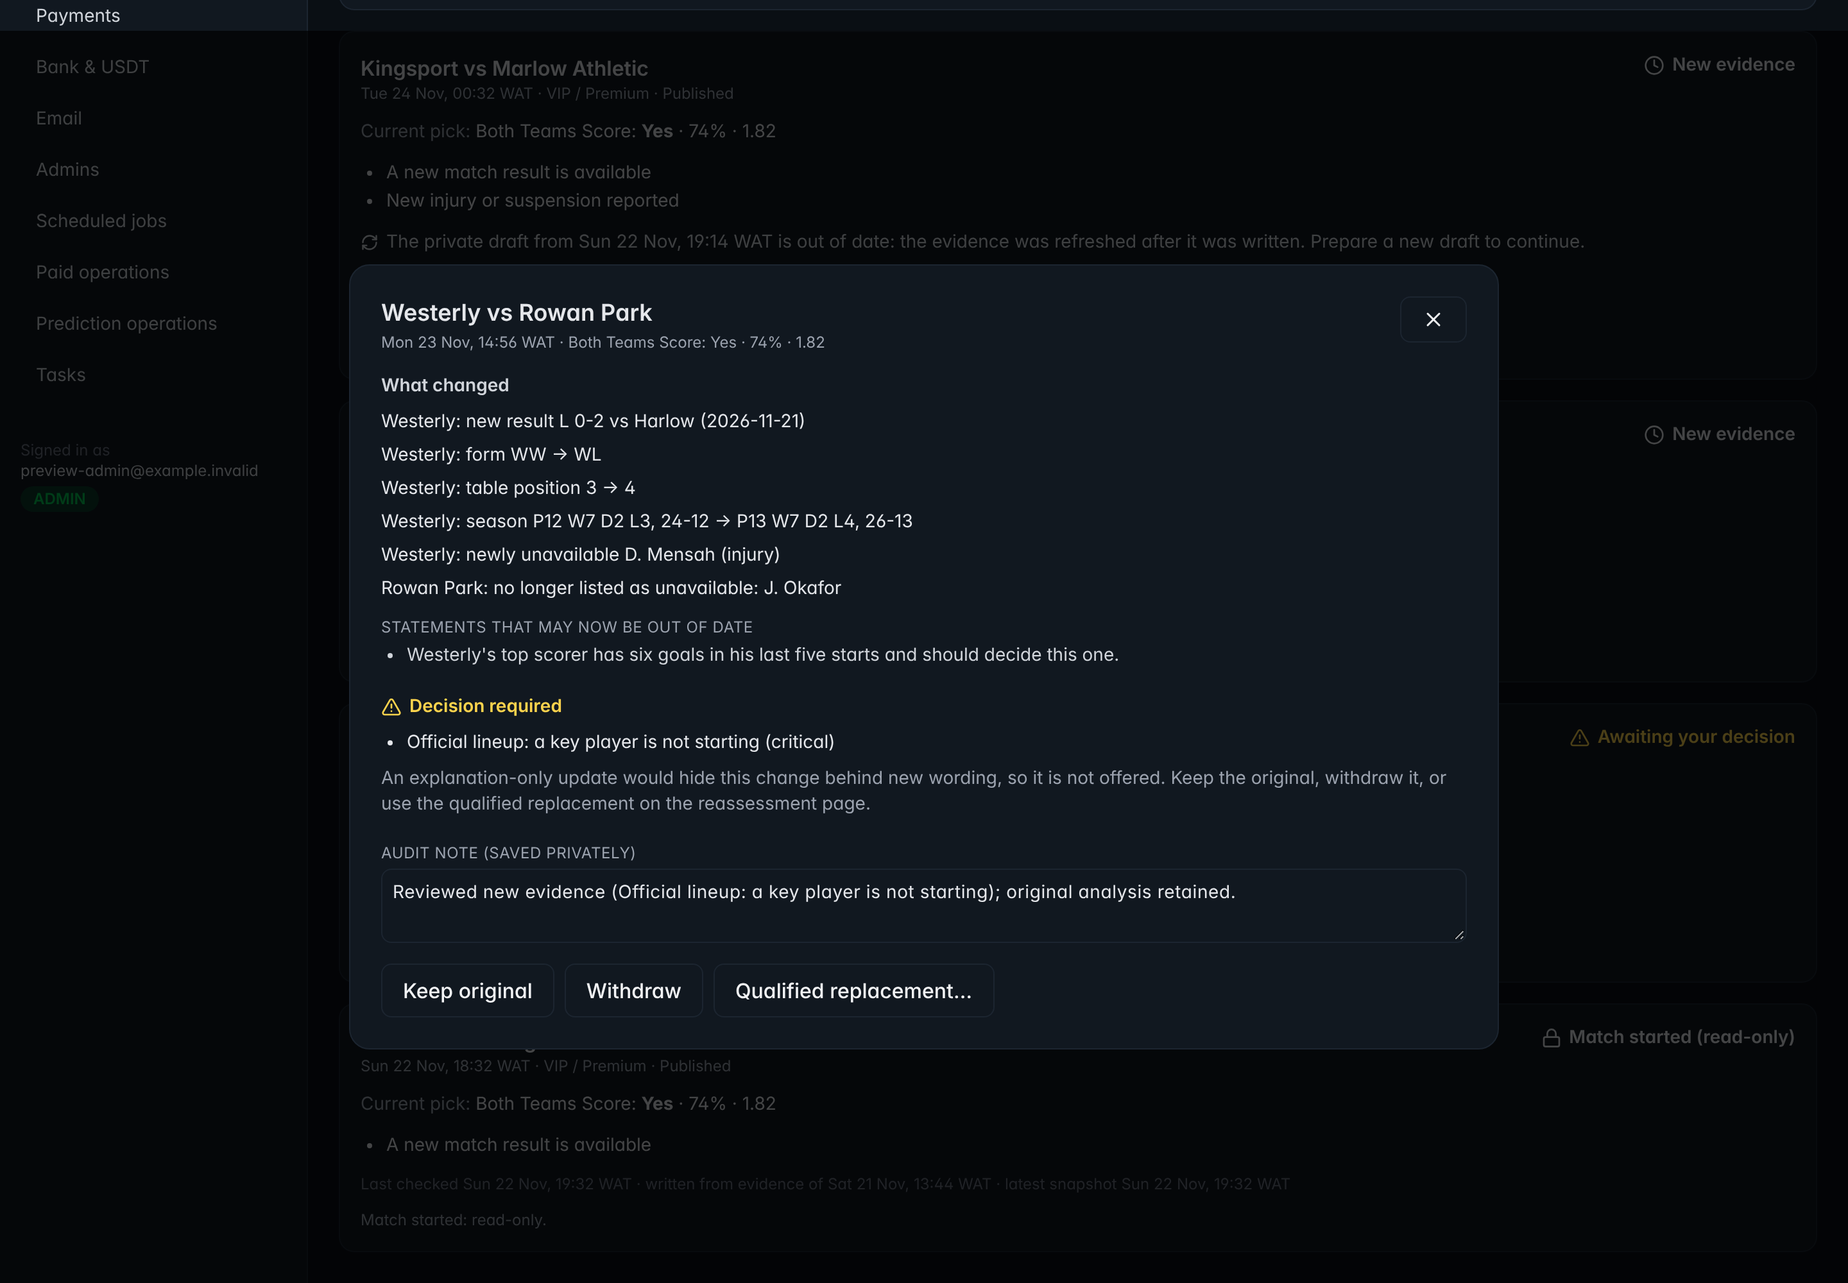
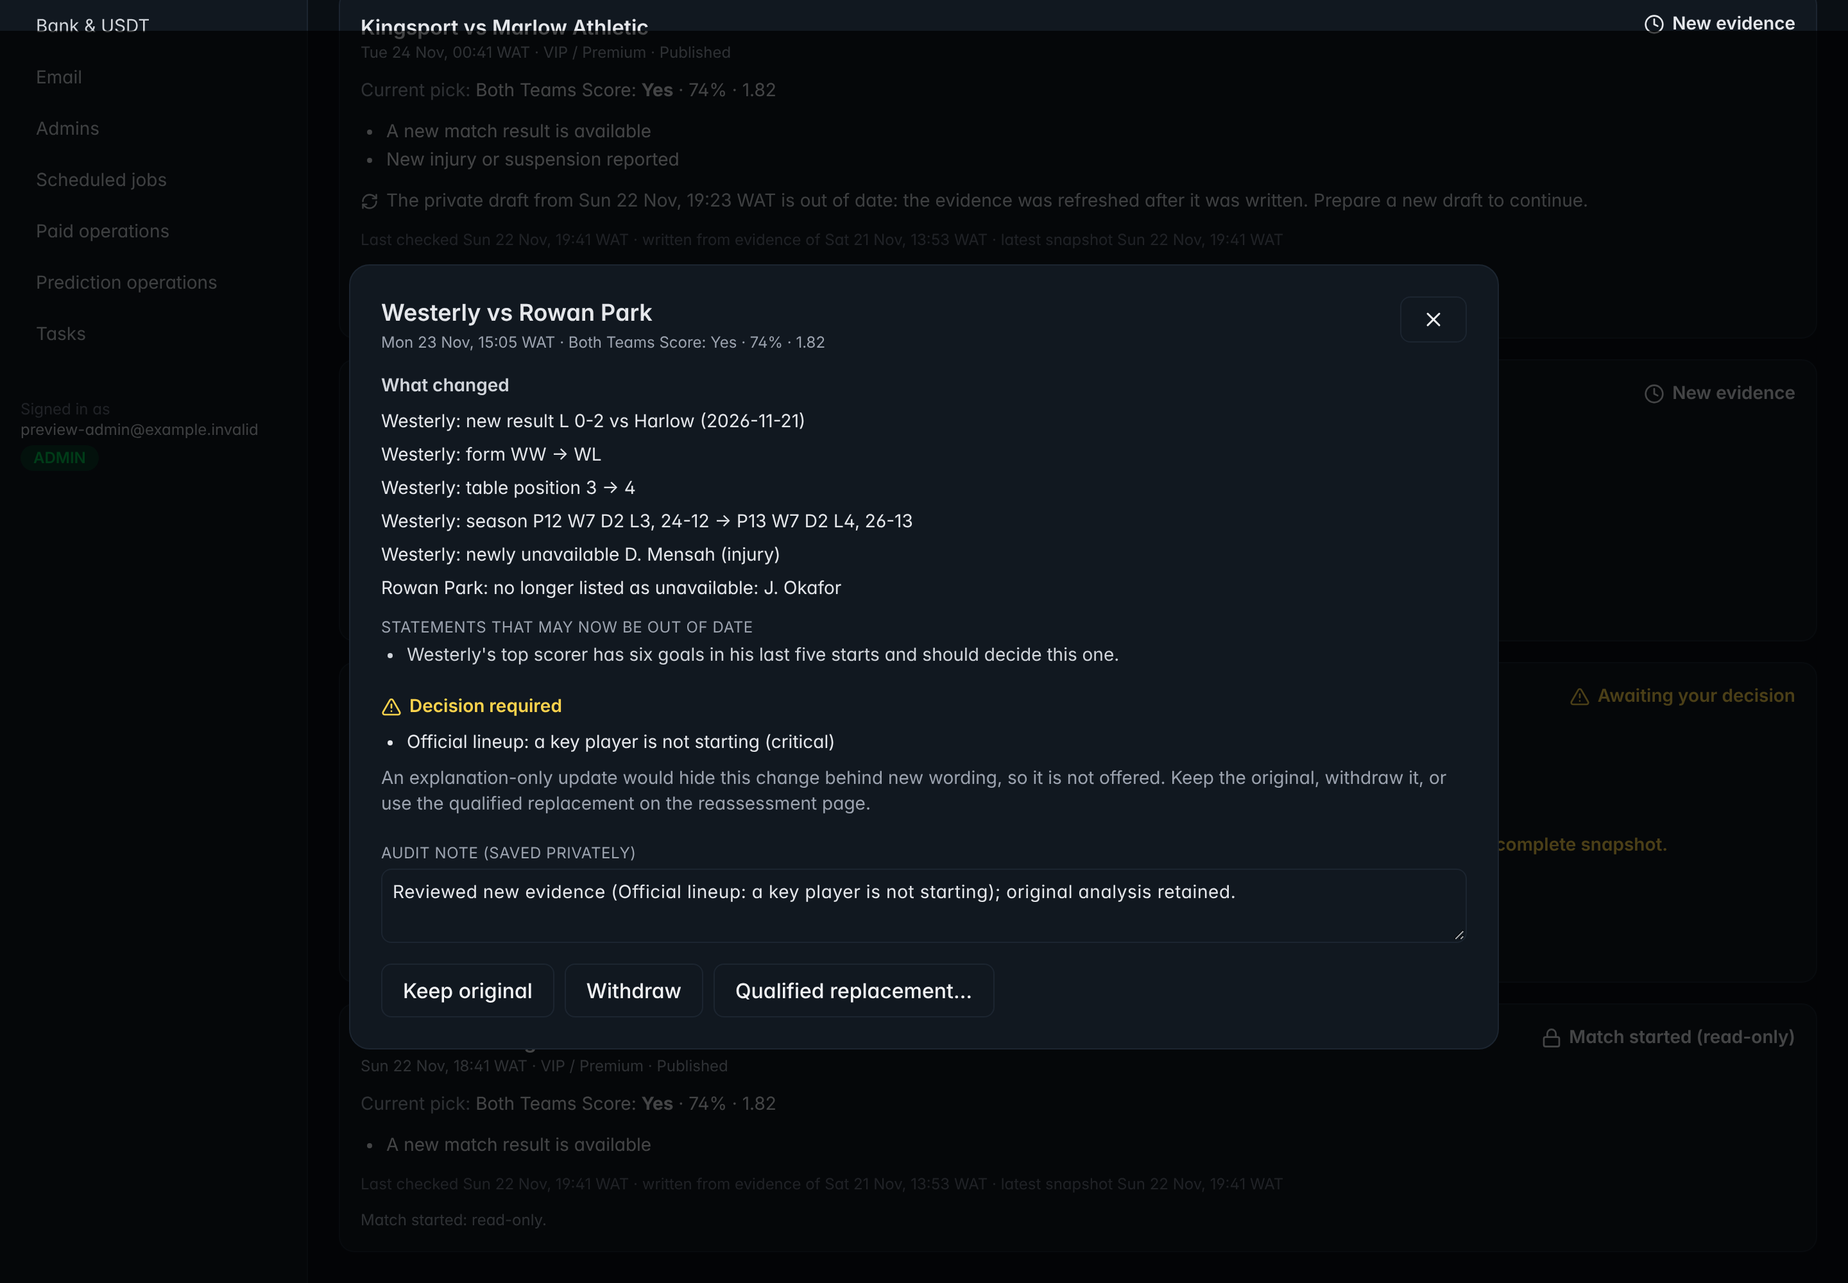
Keep an open review actionable when a monitoring refresh fails (PR #233 review 3)
The worker's missing-team-cache branch overwrote an open REVIEW_REQUIRED
case with UNKNOWN, dropping it (and its verified signal, e.g. a confirmed
key-player absence) out of the admin queue. It now keeps the open case
exactly as recorded (status, summary, alert signature, last complete
snapshot, audit trail) and only records the check time plus a
LATEST_EVIDENCE_UNAVAILABLE marker; the next complete check clears it.
Cases with no open review still become UNKNOWN as before.

The workspace shows "The latest check could not load current evidence.
This case stays open…" (also for FIXTURE_STATE_UNAVAILABLE); Keep /
Withdraw / Review remain available.

Integration regression runs the real worker (stubbed provider, cache-only
at 1,400 remaining, no team cache) on a published REVIEW_REQUIRED case
with a recorded CRITICAL signal: it stays REVIEW_REQUIRED, nothing
published or audited changes, it stays in New evidence as Awaiting your
decision, and Keep still resolves it. A mutation probe restoring the old
downgrade fails the test.

Claude-Session: https://claude.ai/code/session_01AcoHJTLEuy8VUg2Yuuooav

diff --git a/scripts/check-prediction-updates-postgres.ts b/scripts/check-prediction-updates-postgres.ts
@@ -431,7 +431,68 @@ async function main() {
       if (todays.length) await prisma.apiUsage.createMany({ data: todays });
     }
 
-    console.log("PASS: admin-only + CSRF, null kickoff fails closed, Reviewed = decisions only, historical default = upcoming any generation date, per-call quota floor at 1,000/1,500 boundaries, prioritised cards beyond 500, what-changed diff and stale statements, draft → approve (prose only, private before/after audit), keep, decision-required and admin-authored guards, no action after kickoff, quota stand-down, no provider calls");
+    // ---------------------------------------------------------------- review round 3: a failed refresh never clears an open case
+    {
+      // Published, kickoff in 2h (the most urgent due check), open REVIEW_REQUIRED with a recorded CRITICAL signal.
+      const crit = await seed({ tag: "MissingCache", kickoff: new Date(Date.now() + 2 * H), categories: ["VIP"], provenance: "VIP_GENERATED",
+        signals: [{ code: "confirmed-lineup-key-player-absence", severity: "CRITICAL" }] });
+      // No other due published row may outrank it, and no team cache exists for its teams.
+      await prisma.predictionReassessment.updateMany({ where: { predictionId: { in: made.preds.filter((id) => id !== crit) } }, data: { nextCheckAt: new Date(Date.now() + 30 * D) } });
+      await prisma.teamEnrichmentCache.deleteMany({ where: { teamApiId: { in: [77001, 77002] } } }).catch(() => {});
+      const reassBefore = await prisma.predictionReassessment.findUniqueOrThrow({ where: { predictionId: crit } });
+      const predBefore = await snap(crit);
+      const revsBefore = await prisma.predictionRevision.findMany({ where: { predictionId: crit }, orderBy: { id: "asc" } });
+      const realFetch = globalThis.fetch;
+      let calls = 0;
+      // Provider stub: the fixture itself is confirmed (unchanged, not started),
+      // but every team refresh comes back empty, so both team caches are missing.
+      const critRow = await prisma.prediction.findUniqueOrThrow({ where: { id: crit }, select: { fixtureApiId: true, kickoff: true } });
+      globalThis.fetch = (async (input: string | URL | Request) => {
+        calls++;
+        const u = new URL(typeof input === "string" ? input : input instanceof URL ? input.href : input.url);
+        const body = u.pathname === "/fixtures" && u.searchParams.get("id") === String(critRow.fixtureApiId)
+          ? [{ fixture: { id: critRow.fixtureApiId, date: critRow.kickoff!.toISOString(), status: { short: "NS" } }, teams: { home: { id: 77001 }, away: { id: 77002 } }, league: { id: 39 } }]
+          : [];
+        return new Response(JSON.stringify({ errors: [], results: body.length, response: body }), { status: 200, headers: { "content-type": "application/json" } });
+      }) as typeof fetch;
+      // 1,400 remaining: core monitoring runs (floor 1,000), evidence is cache-only
+      // (refresh floor 1,500), and there is no team cache: both sides "missing".
+      await prisma.apiUsage.deleteMany({ where: { day: usageDay, path: usagePath } });
+      const used3 = (await prisma.apiUsage.aggregate({ where: { day: usageDay }, _sum: { count: true } }))._sum.count ?? 0;
+      await prisma.apiUsage.create({ data: { day: usageDay, path: usagePath, count: DAILY_LIMIT - RESERVE - 1_400 - used3 } });
+      let report: Awaited<ReturnType<typeof runPublishedReassessment>>;
+      try { report = await runPublishedReassessment({ now: new Date(), limit: 1 }); }
+      finally {
+        globalThis.fetch = realFetch;
+        await prisma.apiUsage.deleteMany({ where: { day: usageDay } });
+        const todays = usageBefore.filter((u) => u.day === usageDay);
+        if (todays.length) await prisma.apiUsage.createMany({ data: todays });
+      }
+      assert.ok(report.checked >= 1 && calls >= 1, "the worker really ran this case: " + report.summary);
+      assert.equal(report.evidenceMode, "cache-only");
+      const reassAfter = await prisma.predictionReassessment.findUniqueOrThrow({ where: { predictionId: crit } });
+      assert.equal(reassAfter.lastError, "LATEST_EVIDENCE_UNAVAILABLE", "the missing-cache branch was taken");
+      assert.equal(reassAfter.status, "REVIEW_REQUIRED", "the open case is NOT reclassified UNKNOWN");
+      assert.equal(reassAfter.summary, reassBefore.summary, "original summary kept");
+      assert.equal(reassAfter.lastChangeHash, reassBefore.lastChangeHash, "material signature kept");
+      assert.deepEqual(reassAfter.lastEvidence, reassBefore.lastEvidence, "last complete snapshot kept (any draft stays valid)");
+      assert.equal(reassAfter.publicHold, false);
+      assert.ok(reassAfter.checkedAt && reassAfter.checkedAt > (reassBefore.checkedAt ?? new Date(0)), "check time recorded");
+      assert.deepEqual(await prisma.predictionRevision.findMany({ where: { predictionId: crit }, orderBy: { id: "asc" } }), revsBefore, "audit trail untouched");
+      assert.deepEqual(await snap(crit), predBefore, "no published field changed");
+      const card = ((await call(updatesRoute.GET, req("/api/admin/prediction-updates?tab=new&pageSize=100"))).body.cards as Array<C & { latestEvidenceUnavailable: boolean }>).find((c) => c.id === crit);
+      assert.ok(card, "still in New evidence");
+      assert.equal(card!.adminStatus, "Awaiting your decision", "the critical signal still drives the decision");
+      assert.equal(card!.latestEvidenceUnavailable, true, "the failed refresh is shown");
+      assert.equal(card!.actions.keep, true, "Keep original stays available");
+      assert.equal(card!.actions.withdraw, true, "Withdraw stays available");
+      const needsNow = ((await call(updatesRoute.GET, req("/api/admin/prediction-updates?tab=needs&pageSize=100"))).body.cards as C[]);
+      assert.ok(!needsNow.some((c) => c.id === crit), "not moved to Needs more evidence");
+      const kept = await call(resolveRoute.POST, req("/x", { method: "POST", body: { predictionId: crit, action: "KEEP", note: "Lineup absence reviewed; original retained." } }));
+      assert.equal(kept.status, 200, "the administrator can still resolve the original signal");
+    }
+
+    console.log("PASS: failed refresh keeps an open critical case actionable, admin-only + CSRF, null kickoff fails closed, Reviewed = decisions only, historical default = upcoming any generation date, per-call quota floor at 1,000/1,500 boundaries, prioritised cards beyond 500, what-changed diff and stale statements, draft → approve (prose only, private before/after audit), keep, decision-required and admin-authored guards, no action after kickoff, quota stand-down, no provider calls");
   } finally {
     await cleanup();
     await prisma.$disconnect();

diff --git a/scripts/seed-prediction-updates-preview.ts b/scripts/seed-prediction-updates-preview.ts
@@ -44,7 +44,7 @@ async function main() {
   } as unknown as MatchDigest);
 
   type Seed = { home: string; away: string; kickoffDays: number; cat: string; prov: string; status?: string; reass?: string; signals?: Array<[string, string, string]>;
-    reasoning: string; changed?: boolean; draft?: { reasoning: string; confidence?: number; stale?: boolean }; decided?: [string, string]; noJob?: boolean; confidence?: number; odds?: number; market?: string; pick?: string };
+    reasoning: string; changed?: boolean; draft?: { reasoning: string; confidence?: number; stale?: boolean }; decided?: [string, string]; noJob?: boolean; unavailable?: boolean; confidence?: number; odds?: number; market?: string; pick?: string };
   const seeds: Seed[] = [
     { home: "Northbridge", away: "Eastvale", kickoffDays: 0.4, cat: "VIP", prov: "VIP_GENERATED", changed: true,
       signals: [["new-result-home", "MODERATE", "Northbridge played since this pick was written"]],
@@ -55,7 +55,7 @@ async function main() {
       reasoning: "Kingsport have their first-choice midfield available. Marlow Athletic are winless in their last two.",
       draft: { stale: true, reasoning: "A draft written before the latest evidence refresh; it can no longer be applied." } },
     { home: "Westerly", away: "Rowan Park", kickoffDays: 0.8, cat: "FEATURED", prov: "STANDARD_CURATED", changed: true,
-      signals: [["confirmed-lineup-key-player-absence", "CRITICAL", "Official lineup: Westerly's top scorer is not starting"]],
+      signals: [["confirmed-lineup-key-player-absence", "CRITICAL", "Official lineup: Westerly's top scorer is not starting"]], unavailable: true,
       reasoning: "Westerly's top scorer has six goals in his last five starts and should decide this one." },
     { home: "Ashgrove", away: "Calder Town", kickoffDays: 2.5, cat: "FEATURED", prov: "STANDARD_CURATED", status: "PENDING_REVIEW", changed: true,
       signals: [["new-result-home", "MODERATE", "Ashgrove played"]], reasoning: "Ashgrove are in strong form with two straight wins." },
@@ -84,8 +84,9 @@ async function main() {
       publishedAt: status === "PUBLISHED" ? new Date(now - 20 * H) : null, createdAt: new Date(now - 30 * H),
       categories: { create: [{ category: s.cat, manual: false }] } } });
     await prisma.predictionReassessment.create({ data: { predictionId: p.id, status: s.reass ?? "REVIEW_REQUIRED", publicHold: false,
-      checkedAt: new Date(now - 12 * 60_000), lastEvidence: after as object, lastEvidenceAt: new Date(now - 12 * 60_000), lastChangeHash: "preview-" + n,
-      summary: s.reass === "UNKNOWN" ? "Fixture status could not be confirmed from the latest snapshot; no change recorded." : "New evidence" } });
+      checkedAt: new Date(now - 12 * 60_000), lastEvidence: after as object, lastEvidenceAt: new Date(now - (s.unavailable ? 3 * 60 : 12) * 60_000), lastChangeHash: "preview-" + n,
+      summary: s.reass === "UNKNOWN" ? "Fixture status could not be confirmed from the latest snapshot; no change recorded." : "New evidence",
+      lastError: s.unavailable ? "LATEST_EVIDENCE_UNAVAILABLE" : null } });
     if ((s.reass ?? "REVIEW_REQUIRED") === "REVIEW_REQUIRED")
       await prisma.predictionRevision.create({ data: { predictionId: p.id, kind: "REVIEW_REQUIRED", publiclyVisible: false, reason: "monitoring", beforeJson: {},
         evidenceJson: (s.signals ?? []).map(([code, severity, message]) => ({ code, severity, source: "fixture", message })),

diff --git a/src/lib/reassessment/worker.ts b/src/lib/reassessment/worker.ts
@@ -72,6 +72,8 @@ const LEASE_KEY = "published-prediction-reassessment";
  * cached evidence the enrichment crons keep warm for published picks.
  */
 export const REASSESSMENT_CORE_MIN_REMAINING = 1_000;
+/** Marker for a check that could not load current team evidence (cleared by the next complete check). */
+export const LATEST_EVIDENCE_UNAVAILABLE = "LATEST_EVIDENCE_UNAVAILABLE";
 export const REASSESSMENT_REFRESH_MIN_REMAINING = 1_500;
 
 type SelectionSnapshot = {
@@ -289,14 +291,22 @@ export async function runPublishedReassessment(input: { now?: Date; limit?: numb
         // enrichment requests failed. Other changes still fail closed.
         const criticalFixtureAlreadyKnown = signals.some(s => s.source === "fixture" && s.severity === "CRITICAL");
         if ((sources.homeTeam === "missing" || sources.awayTeam === "missing") && !criticalFixtureAlreadyKnown) {
+          // A failed refresh never clears an open review (like the other
+          // missing-data branches): the case, its signal, summary, signature
+          // and snapshot stay exactly as recorded, so the administrator can
+          // still resolve it. Only the check time and an "evidence
+          // unavailable" marker change; the next complete check clears it.
+          const keepReview = row.reassessment?.status === "REVIEW_REQUIRED";
+          const unavailable = "One or both teams lack current evidence; no assumption of unchanged conditions.";
           await prisma.predictionReassessment.upsert({
             where: { predictionId: row.id },
             create: { predictionId: row.id, status: "UNKNOWN", checkedAt: now,
-              nextCheckAt: new Date(now.getTime() + 3_600_000),
-              summary: "One or both teams lack current evidence; no assumption of unchanged conditions." },
-            update: { status: "UNKNOWN", checkedAt: now, nextCheckAt: new Date(now.getTime() + 3_600_000),
-              summary: "One or both teams lack current evidence; no assumption of unchanged conditions." },
+              nextCheckAt: new Date(now.getTime() + 3_600_000), summary: unavailable, lastError: LATEST_EVIDENCE_UNAVAILABLE },
+            update: keepReview
+              ? { checkedAt: now, nextCheckAt: new Date(now.getTime() + 3_600_000), lastError: LATEST_EVIDENCE_UNAVAILABLE }
+              : { status: "UNKNOWN", checkedAt: now, nextCheckAt: new Date(now.getTime() + 3_600_000), summary: unavailable, lastError: LATEST_EVIDENCE_UNAVAILABLE },
           });
+          if (keepReview) report.flagged++;
           report.skipped++;
           continue;
         }

diff --git a/src/app/admin/updates/page.tsx b/src/app/admin/updates/page.tsx
@@ -22,6 +22,7 @@ type Card = {
   current: { market: string; pick: string; confidence: number; odds: number | null; publishedAt: string | null; provenance: string; reasoning: string; matchPreview: string | null };
   adminStatus: string; reasons: string[]; signals: Signal[]; summary: string | null; lastChecked: string | null;
   snapshot: { originalAt: string | null; latestAt: string | null; source: string };
+  latestEvidenceUnavailable: boolean;
   diff: Diff; possiblyStale: string[];
   draft: { revisionId: string; reasoning: string; matchPreview: string; confidence: number; sameSelection: boolean; stale: boolean; at: string } | null;
   decision: { required: boolean; reasons: string[] };
@@ -215,6 +216,10 @@ function UpdateCardView({ card, onReview, onDone }: { card: Card; onReview: () =
       <p className="text-sm"><span className="text-gray-400">Current pick:</span> {card.current.market}: <b>{card.current.pick}</b> · {card.current.confidence}%{card.current.odds ? ` · ${card.current.odds.toFixed(2)}` : ""}</p>
       {card.reasons.length > 0 && <ul className="list-disc space-y-0.5 pl-5 text-sm text-gray-200">{card.reasons.map((r) => <li key={r}>{r}</li>)}</ul>}
       {card.adminStatus === "Needs more evidence" && card.summary && <p className="text-sm text-gray-300">{card.summary}</p>}
+      {card.latestEvidenceUnavailable && (
+        <p className="flex items-center gap-1.5 text-sm font-semibold text-amber-300"><AlertTriangle size={15} aria-hidden />
+          The latest check ({when(card.lastChecked)}) could not load current evidence. This case stays open; what changed is from the last complete snapshot.</p>
+      )}
       {card.draft?.stale && card.upcoming && (
         <p className="flex items-center gap-1.5 text-sm text-gray-300"><RefreshCw size={14} aria-hidden />
           The private draft from {when(card.draft.at)} is out of date: the evidence was refreshed after it was written. Prepare a new draft to continue.</p>

diff --git a/src/lib/predictionUpdates.ts b/src/lib/predictionUpdates.ts
@@ -79,6 +79,8 @@ export type UpdateCard = {
   summary: string | null;
   lastChecked: string | null;
   snapshot: { originalAt: string | null; latestAt: string | null; source: "monitoring snapshot" | "none" };
+  /** The latest monitoring check could not load current evidence (refresh failed); the open case is kept. */
+  latestEvidenceUnavailable: boolean;
   diff: EvidenceDiff | null;
   possiblyStale: string[];
   draft: { revisionId: string; reasoning: string; matchPreview: string; confidence: number; sameSelection: boolean; stale: boolean; at: string } | null;
@@ -137,6 +139,8 @@ export function buildCard(row: CardRow, now: Date): UpdateCard {
     lastChecked: row.reassessment?.checkedAt?.toISOString() ?? null,
     snapshot: { originalAt: row.aiJob?.createdAt.toISOString() ?? null, latestAt: row.reassessment?.lastEvidenceAt?.toISOString() ?? null,
       source: latest ? "monitoring snapshot" : "none" },
+    // The latest check could not load current team evidence or confirm the fixture state.
+    latestEvidenceUnavailable: row.reassessment?.lastError === "LATEST_EVIDENCE_UNAVAILABLE" || row.reassessment?.lastError === "FIXTURE_STATE_UNAVAILABLE",
     diff, possiblyStale: possiblyStaleStatements([row.matchPreview, row.reasoning].filter(Boolean).join("\n"), diff, signals),
     draft, decision, latestDecision,
     suggestedNotes: { update: suggestedAuditNote(signals, "update"), keep: suggestedAuditNote(signals, "keep") },

diff --git a/docs/PREDICTION_UPDATES_WORKSPACE.md b/docs/PREDICTION_UPDATES_WORKSPACE.md
@@ -60,6 +60,7 @@ Other server-side guards, which apply to the routes and not only to the buttons:
   - **The alert signature is unchanged** and still drives alerts.
 - All routes are **admin-only**, and mutations are **origin-checked**, which guards against CSRF.
 - **Nothing is deleted, hidden or put on public hold** by this workspace.
+- **A failed refresh never clears an open case.** When a monitoring check cannot load current evidence (a team cache missing, or the fixture state unconfirmed), an open `REVIEW_REQUIRED` case keeps everything as recorded: status, signal, summary, alert signature and last complete snapshot, so any draft stays valid and the audit trail is untouched. Only the check time and a marker (`LATEST_EVIDENCE_UNAVAILABLE` or `FIXTURE_STATE_UNAVAILABLE`) change. The card says "The latest check could not load current evidence. This case stays open…", and Keep / Withdraw / Review stay available. The next complete check clears the marker and reassesses normally. Previously the missing-team-cache branch downgraded such a case to `UNKNOWN` and removed it from the queue. Cases with no open review still become `UNKNOWN` as before.
 - **Duplicate alerts are suppressed, and the signature is value-sensitive.** An unchanged signature keeps a retained case closed; a genuinely new one reopens it once. The signature (`lastChangeHash`, built by `materialSignature`) includes the substance behind generic codes: the **new kickoff time** for `fixture-kickoff-shift`, the **new coach** for `coach-change-*`, and the **absent players** for `confirmed-lineup-key-player-absence`. So after *Keep original*, a different absent key player, a further kickoff move or another coach change reopens the case. Check times are never part of the signature. Codes that already carry their value (results, absences, fixture status) hash exactly as before, so existing retained cases are not reopened by the upgrade. A case retained on one of the three generic codes before this change may reopen once on its next check.
 
 ## 3. API-Football budget: verified allocation
